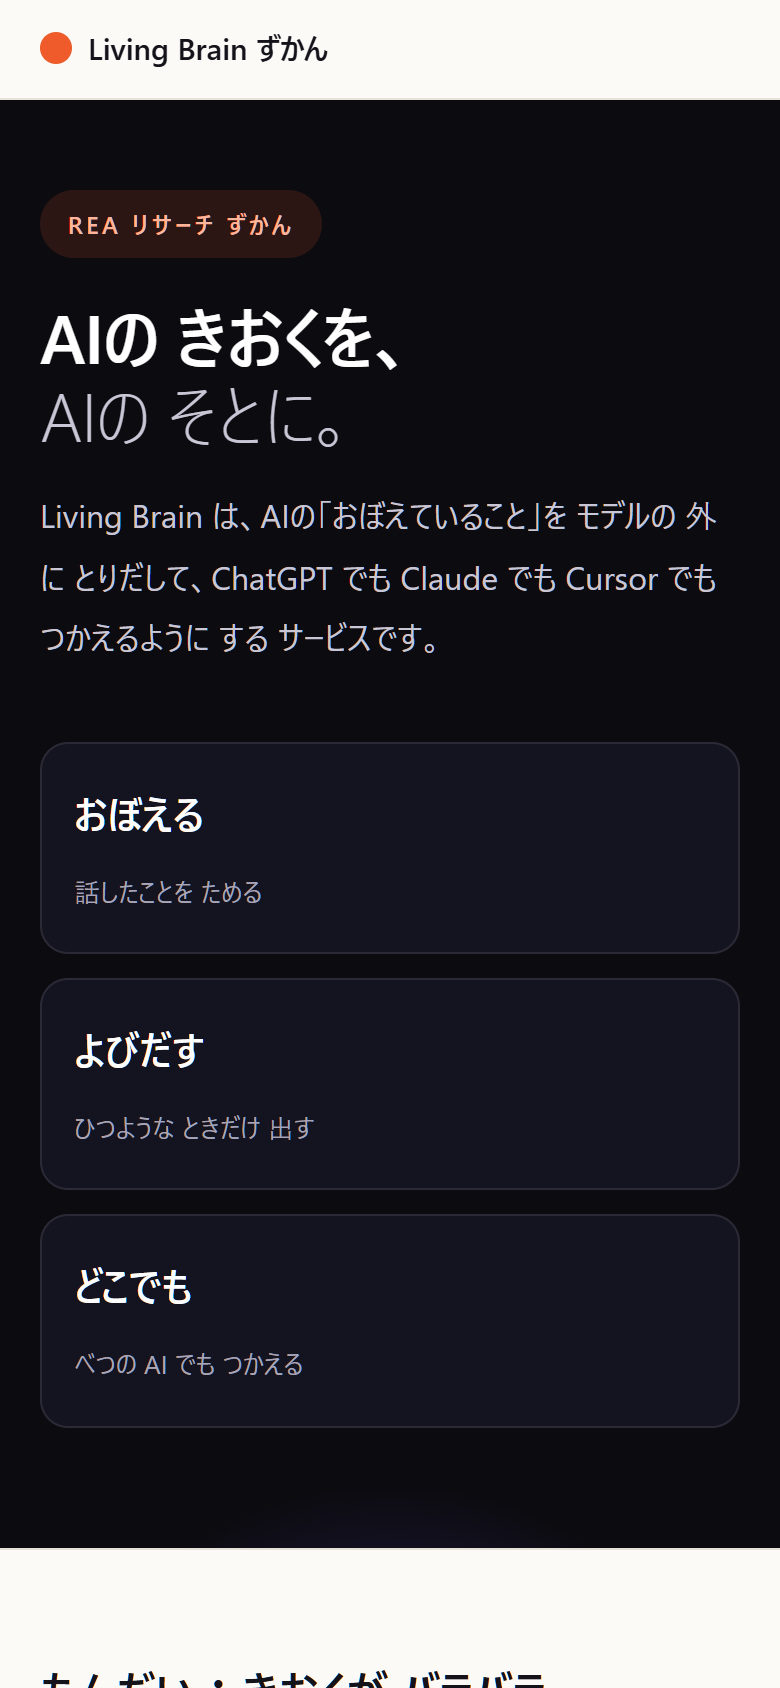
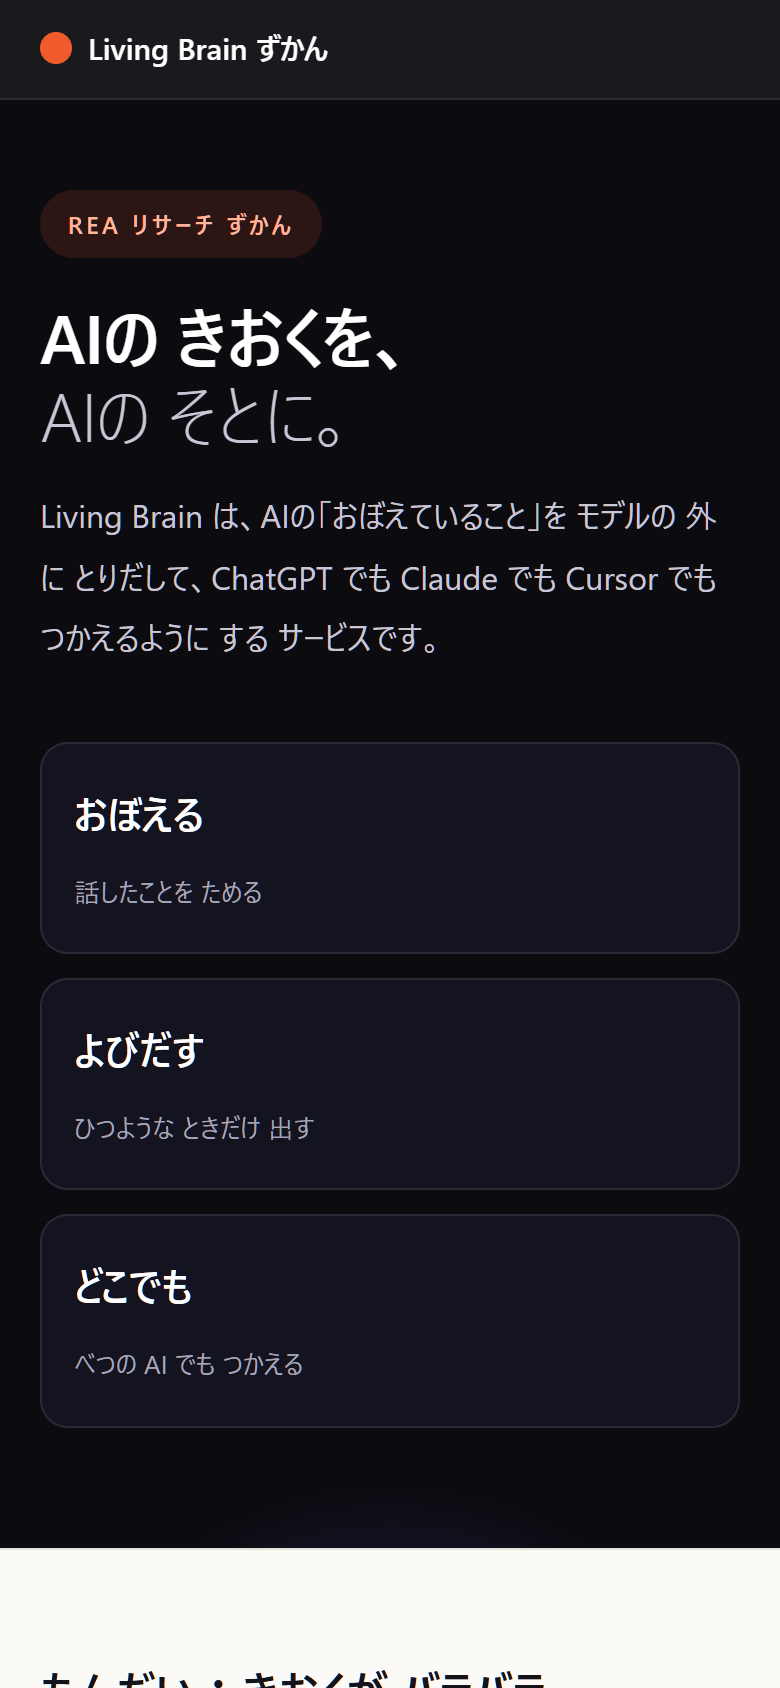
Link the visual site from the report and add the audit script

Changed region(s): [[0.0, 0.0, 1.0, 0.0616]]

diff --git a/scripts/audit.js b/scripts/audit.js
@@ -1,0 +1,72 @@
+// Compact in-page audit: headings, alt text, contrast, tap targets, overflow.
+() => {
+  const doc = document;
+  const de = doc.documentElement;
+  const parse = (c) => {
+    const m = c.match(/rgba?\(([^)]+)\)/);
+    if (!m) return null;
+    const p = m[1].split(",").map(Number);
+    return { r: p[0], g: p[1], b: p[2], a: p.length > 3 ? p[3] : 1 };
+  };
+  const lum = ({ r, g, b }) => {
+    const f = (v) => ((v /= 255), v <= 0.03928 ? v / 12.92 : Math.pow((v + 0.055) / 1.055, 2.4));
+    return 0.2126 * f(r) + 0.7152 * f(g) + 0.0722 * f(b);
+  };
+  const ratio = (a, b) => {
+    const x = lum(a), y = lum(b);
+    return (Math.max(x, y) + 0.05) / (Math.min(x, y) + 0.05);
+  };
+  const bgOf = (el) => {
+    let n = el;
+    while (n && n !== de) {
+      const c = parse(getComputedStyle(n).backgroundColor);
+      if (c && c.a > 0.5) return c;
+      n = n.parentElement;
+    }
+    return { r: 255, g: 255, b: 255 };
+  };
+
+  const hs = [...doc.querySelectorAll("h1,h2,h3,h4,h5,h6")].map((h) => ({
+    l: +h.tagName[1],
+    t: h.textContent.trim().slice(0, 40),
+  }));
+  const skips = [];
+  for (let i = 1; i < hs.length; i++) if (hs[i].l - hs[i - 1].l > 1) skips.push(`${hs[i - 1].l}->${hs[i].l}`);
+
+  const imgs = [...doc.querySelectorAll("img")];
+  const ctrls = [...doc.querySelectorAll("a,button,summary,input")];
+  const samples = [...doc.querySelectorAll("p,li,span,a,b,small,figcaption,summary,h1,h2,h3")]
+    .filter((el) => el.children.length === 0 && (el.textContent || "").trim().length > 2)
+    .filter((el) => el.getBoundingClientRect().width > 0)
+    .slice(0, 300);
+
+  const fails = samples
+    .map((el) => {
+      const st = getComputedStyle(el);
+      const fg = parse(st.color);
+      if (!fg) return null;
+      const size = parseFloat(st.fontSize);
+      const weight = Number(st.fontWeight) || 400;
+      const r = ratio(fg, bgOf(el));
+      const need = size >= 24 || (size >= 18.66 && weight >= 700) ? 3 : 4.5;
+      return r < need ? { r: Math.round(r * 100) / 100, size, text: el.textContent.trim().slice(0, 30) } : null;
+    })
+    .filter(Boolean);
+
+  return {
+    lang: de.getAttribute("lang"),
+    h1: hs.filter((h) => h.l === 1).length,
+    skips,
+    images: { total: imgs.length, missingAlt: imgs.filter((i) => !i.hasAttribute("alt")).length },
+    contrast: { sampled: samples.length, failures: fails.length, worst: fails.sort((a, b) => a.r - b.r).slice(0, 5) },
+    tap: {
+      total: ctrls.length,
+      under24: ctrls.filter((c) => {
+        const r = c.getBoundingClientRect();
+        return r.width > 0 && r.height > 0 && (r.height < 24 || r.width < 24);
+      }).length,
+    },
+    overflow: de.scrollWidth > innerWidth + 1,
+    scrollWidth: de.scrollWidth,
+  };
+}

diff --git a/REPORT.md b/REPORT.md
@@ -1,5 +1,7 @@
 # Living Brain リバースエンジニアリング 一次調査レポート
 
+> やさしい図解版: https://elrdn.github.io/living-brain-reverse-engineering/
+
 対象: `livingbrain.com` / `docs.livingbrain.com` / `api.livingbrain.com` / `livingbrain.fernmcp.dev` / 公開SDK・CLI・GitHub
 手法: REA（受動的Web観測 + 成果物静的解析）+ 一次資料の直接取得 + ベンチマーク一次データによる再計算
 調査日: 2026-11-06
